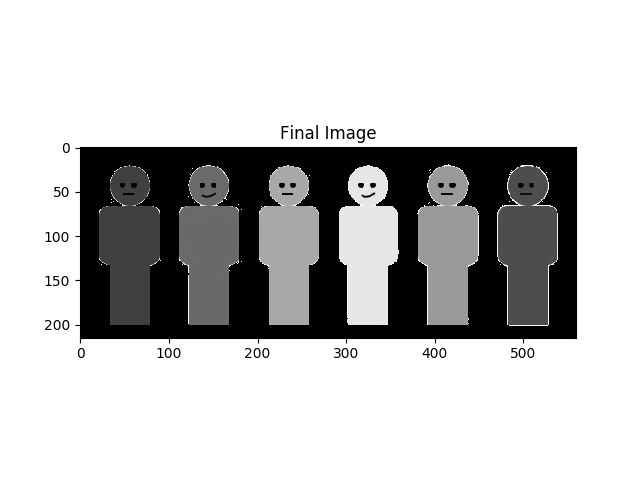
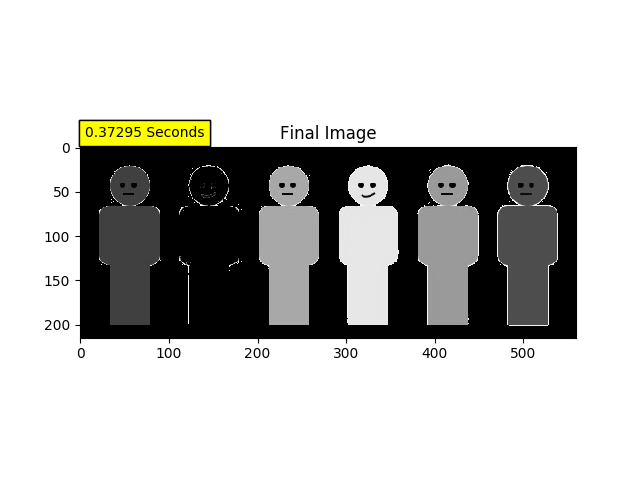
added the time elapsed to the graph

Changed region(s): [[0.2812, 0.3438, 0.375, 0.6875], [0.125, 0.25, 0.3438, 0.3125]]

diff --git a/region_growing/regionGrowing.py b/region_growing/regionGrowing.py
@@ -1,8 +1,3 @@
-#Implement region growing segmentation. 
-#Allow user to set an initial seed and then segment
-#this region according to similarity of colors and or intensity.
-
-
 import numpy as np 
 import matplotlib.pyplot as plt 
 import matplotlib.colors as color
@@ -14,17 +9,17 @@ def rgb2gray(rgb):
 
 
 
-def growRegion():
+def grow_region():
 	global points
 
 	while len(points) > 0:
-		checkNeighbours(points.pop(0))
+		check_neighbours(points.pop())
 
 	show_final()
 
 
 
-def checkNeighbours(point):
+def check_neighbours(point):
 	global points, value
 
 	y = point[0]
@@ -57,8 +52,10 @@ def checkNeighbours(point):
 
 def show_final():
 	global start
-	print("\n~~~ %0.5f Seconds ~~~ " % (time.time() - start))
+	elapsed_time = "%0.5f Seconds" % (time.time() - start)
 	plt.title('Final Image')
+	plt.text(5, -12, elapsed_time, fontsize=10, bbox=dict(facecolor='yellow', alpha=1))
+
 	plt.imshow(grayImage)
 	plt.savefig('output_regionGrowing.png')
 	plt.show()
@@ -70,13 +67,11 @@ def onclick(event):
 
 	start = time.time()
 
-	x, y = int(event.xdata), int(event.ydata)
+	points.append((int(event.ydata), int(event.xdata)))
 
-	value = int(grayImage[y][x])
+	value = grayImage[points[0]]
 
-	points.append((y, x))
-
-	growRegion()
+	grow_region()
 
 
 
@@ -88,8 +83,6 @@ points    = []
 threshold = 10
 
 file = 'seg1'
-
-fig = plt.figure()
 
 try:
 	image = plt.imread(file + '.png')
@@ -111,6 +104,7 @@ except ValueError:
 grayImage = np.round(rgb2gray(image))
 
 
+fig = plt.figure()
 
 fig.add_subplot(111)
 plt.title('Input Image')
